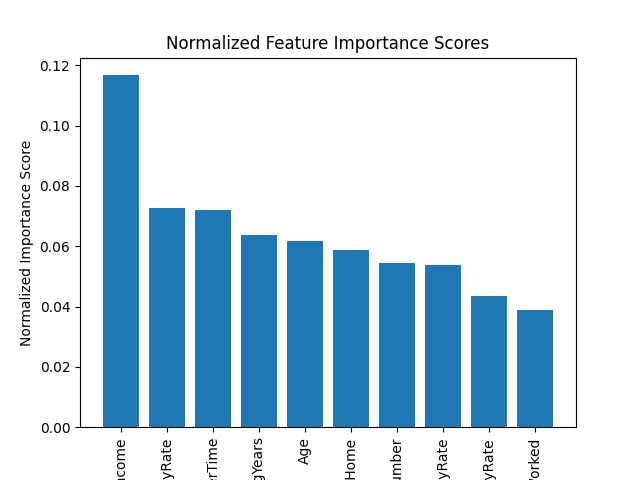
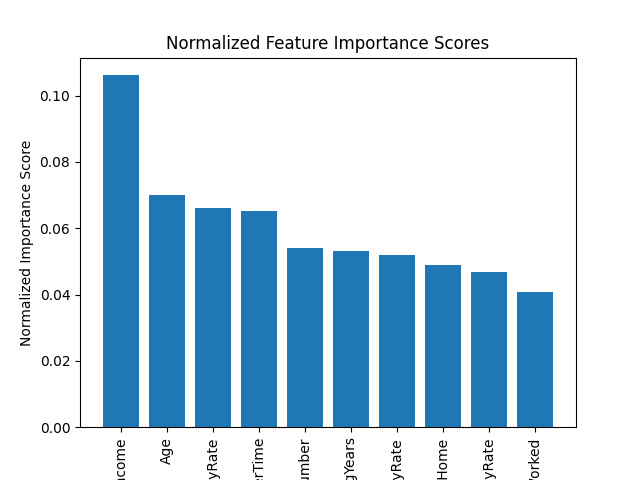
.

diff --git a/codes/feature_importance.py b/codes/feature_importance.py
@@ -1,35 +1,7 @@
 from sklearn.ensemble import RandomForestRegressor
 import pandas as pd
-import matplotlib.pyplot as plt
 import numpy as np
 
-# # Constants
-# DS = "data/HR Employee Attrition.csv"
-# RANDOM_SEED = 0
-
-# # Read data set
-# df = pd.read_csv(filepath_or_buffer=DS)
-
-# # Data Cleaning
- 
-# df = df.select_dtypes(include='number')
-
-# # Get feature importance
-# X = df.drop('Attrition', axis=1)
-# y = df['Attrition']
-
-# model = RandomForestRegressor(random_state=RANDOM_SEED)
-# model.fit(X, y)
-
-# feature_importances = model.feature_importances_
-# feature_names = X.columns
-# importance_dict = dict(zip(feature_names, feature_importances))
-# sorted_importance = np.array(sorted(importance_dict.items(), key=lambda x: x[1], reverse=True))
-
-# plt.xlabel("Feature")
-# plt.ylabel("Importance Index")
-# plt.bar(sorted_importance[:, 0], sorted_importance[:, 1])
-# plt.show()
 
 def get_feature_importance(random_seed:int, data_set:pd.DataFrame, target_feature:str):
     # Separate traget column

diff --git a/README.md b/README.md
@@ -74,6 +74,8 @@ Tools used in this projects:
 - Github to store source code, results and graphs, and the dataset
 
 ## Results
+#### What are some employee attributres that contribute the most to their attrition?
+To answer this question I used a model caller random
 
 
 ## Discussion 
